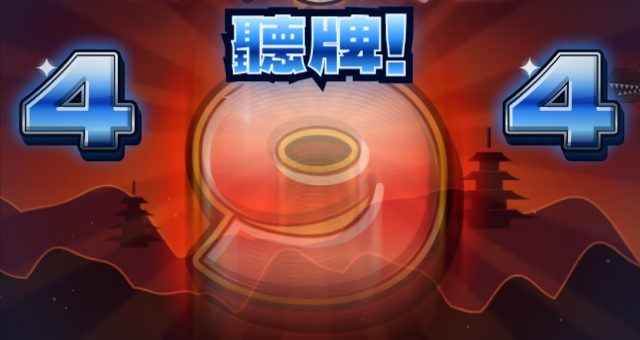
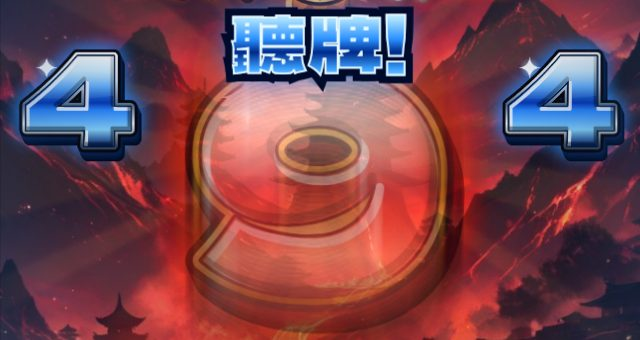
AI dragons in every effect, livelier odds, sub display by mode, lighter pins

diff --git a/src/lcd.js b/src/lcd.js
@@ -462,7 +462,8 @@
 
   // ------------------------------------------------------------------ image slots
   const IMG = {};
-  const IMG_FILES = { bg_normal: "bg_normal.jpg", bg_rush: "bg_rush.jpg", hero: "hero.png", rival: "rival.png", cutin_hero: "cutin_hero.png", jackpot: "jackpot.png" };
+  const IMG_FILES = { bg_normal: "bg_normal.jpg", bg_rush: "bg_rush.jpg", hero: "hero.png", rival: "rival.png", cutin_hero: "cutin_hero.png", jackpot: "jackpot.png", cab_dragon: "cab_dragon.png",
+    bg_sp: "bg_sp.jpg", bg_battle: "bg_battle.jpg", bg_spsp: "bg_spsp.jpg", bg_bonus: "bg_bonus.jpg", bg_jitan: "bg_jitan.jpg", bg_jackpot: "bg_jackpot.jpg" };
   let imgPending = 0;
   function loadImages(base) {
     for (const k in IMG_FILES) {
@@ -507,6 +508,17 @@
     const s = Math.max(w / im.naturalWidth, h / im.naturalHeight);
     const iw = im.naturalWidth * s, ih = im.naturalHeight * s;
     ctx.drawImage(im, x + (w - iw) / 2, y + (h - ih) / 2, iw, ih);
+  }
+  // AI dragon art (rival.png, or the gold statue cab_dragon.png) in place of a drawn dragon: h tall,
+  // centred on (cx, cy), facing left like the art (flip: facing right). Returns the mouth, roughly.
+  function drawArtDragon(ctx, im, cx, cy, h, flip) {
+    const w = (h * im.naturalWidth) / im.naturalHeight;
+    ctx.save();
+    ctx.translate(cx, cy);
+    if (flip) ctx.scale(-1, 1);
+    ctx.drawImage(im, -w / 2, -h / 2, w, h);
+    ctx.restore();
+    return { mx: cx + (flip ? 0.3 : -0.3) * w, my: cy - 0.12 * h };
   }
   function drawContain(ctx, im, x, y, w, h, alignBottom) {
     const s = Math.min(w / im.naturalWidth, h / im.naturalHeight);
@@ -1258,6 +1270,12 @@
     return (cache[key] = c);
   }
   function drawBg(ctx, id) { ctx.drawImage(bgSprite(id), -12, -12, W + 24, H + 24); }
+  // A scene's AI background when there is one (the result screen shares the bonus one), else the
+  // drawn one.
+  function sceneBg(ctx, id) {
+    const im = IMG["bg_" + (id === "result" ? "bonus" : id)];
+    if (im) drawCover(ctx, im, -12, -12, W + 24, H + 24); else drawBg(ctx, id);
+  }
   function ridge(g, base, amp, freq, seed, fill, rim) {
     g.beginPath(); g.moveTo(-14, H + 14);
     for (let x = -14; x <= W + 14; x += 3) {
@@ -1427,7 +1445,7 @@
     },
     jitan: {
       draw(ctx, age) {
-        drawBg(ctx, "jitan");
+        sceneBg(ctx, "jitan");
         drawRays(ctx, CX, 160, C.orange, age * 0.2, 0.3, 430, 18, true);
         speedLines(ctx, CX, 160, 20, C.white, 0.25, 90, Math.floor(age * 16));
       },
@@ -1437,7 +1455,7 @@
     },
     bonus: {
       draw(ctx, age) {
-        drawBg(ctx, "bonus");
+        sceneBg(ctx, "bonus");
         drawRays(ctx, CX, 150, C.gold, age * 0.18, 0.4, 440, 18, true);
         if (IMG.hero) { ctx.globalAlpha = 0.9; drawContain(ctx, IMG.hero, 60, 40, 272, 280, true); }
         else drawWarrior(ctx, { x: CX - 10, y: H + 34, sc: 1.02, t: age, rim: "gold", aura: 1, sword: -1.25 + Math.sin(age * 1.5) * 0.04 });
@@ -1450,7 +1468,7 @@
     },
     sp: {
       draw(ctx, age, opt) {
-        drawBg(ctx, "sp");
+        sceneBg(ctx, "sp");
         const drift = (age * 18) % (W + 200);
         ctx.save(); ctx.globalAlpha = 0.5;
         for (let i = 0; i < 6; i++) {
@@ -1477,7 +1495,7 @@
     },
     battle: {
       draw(ctx, age) {
-        drawBg(ctx, "battle");
+        sceneBg(ctx, "battle");
         ctx.save(); ctx.globalCompositeOperation = "lighter";
         drawGlow(ctx, C.orange, CX, 236, 260, 0.25 + 0.08 * Math.sin(age * 3));
         ctx.restore();
@@ -1489,7 +1507,7 @@
     },
     spsp: {
       draw(ctx, age) {
-        drawBg(ctx, "spsp");
+        sceneBg(ctx, "spsp");
         drawRays(ctx, CX, 190, C.gold, age * 0.5, 0.45, 450, 20, true);
         drawRays(ctx, CX, 190, C.red, -age * 0.32, 0.35, 450, 12, true);
         // rainbow halo
@@ -1508,7 +1526,7 @@
     },
     jackpot: {
       draw(ctx, age) {
-        drawBg(ctx, "jackpot");
+        sceneBg(ctx, "jackpot");
         drawRays(ctx, CX, 172, C.white, age * 0.6, 0.5, 450, 22, true);
         drawRays(ctx, CX, 172, C.gold, -age * 0.4, 0.4, 450, 16, true);
         if (IMG.jackpot) { ctx.globalAlpha = 0.85; drawContain(ctx, IMG.jackpot, 0, 20, W, H - 20, true); ctx.globalAlpha = 1; }
@@ -1523,7 +1541,7 @@
     },
     result: {
       draw(ctx, age) {
-        drawBg(ctx, "result");
+        sceneBg(ctx, "result");
         drawRays(ctx, CX, 150, C.blue, age * 0.1, 0.25, 430, 16, true);
       },
       emit(dt) {
@@ -1948,11 +1966,15 @@
     } else if (lv === 4) {
       drawRays(ctx, 0, 0, C.gold, tt * 1.5, 0.6, 200, 16, true);
       ctx.globalCompositeOperation = "source-over";
-      drawWarrior(ctx, { x: 6, y: 128, sc: 0.62, t: tt, rim: "gold", aura: 1 });
+      if (IMG.hero) {   // the AI warrior from the waist up
+        const im = IMG.hero, sh = im.naturalHeight * 0.58, dh = 150, dw = (dh * im.naturalWidth) / sh;
+        ctx.drawImage(im, 0, 0, im.naturalWidth, sh, -dw / 2, -h / 2 + 2, dw, dh);
+      } else drawWarrior(ctx, { x: 6, y: 128, sc: 0.62, t: tt, rim: "gold", aura: 1 });
     } else {
       drawRays(ctx, 0, 0, hueRgb(tt * 200), tt * 2, 0.7, 220, 20, true);
       ctx.globalCompositeOperation = "source-over";
-      drawDragon(ctx, { x: -40, y: -14, sc: 0.62, dir: -1, t: tt * 1.4, len: 300, w0: 16, ang: -0.25, curl: -4.2, amp: 0.15, pal: "gold", glow: true, jaw: 0.42 });
+      if (IMG.cab_dragon) drawArtDragon(ctx, IMG.cab_dragon, 0, 12, 150, false);
+      else drawDragon(ctx, { x: -40, y: -14, sc: 0.62, dir: -1, t: tt * 1.4, len: 300, w0: 16, ang: -0.25, curl: -4.2, amp: 0.15, pal: "gold", glow: true, jaw: 0.42 });
     }
     ctx.globalCompositeOperation = "source-over";
     ctx.restore();
@@ -1962,7 +1984,7 @@
     if (lv >= 4) { bg2.addColorStop(0, "#fff0a0"); bg2.addColorStop(1, "#b06a00"); } else { bg2.addColorStop(0, "#ffffff"); bg2.addColorStop(1, "#6a7a90"); }
     ctx.fillStyle = bg2; roundRect(ctx, -w / 2 - 6, -h / 2 - 10, 82, 24, 7); ctx.fill();
     ctx.font = "14px " + FONT_DIGIT; ctx.textAlign = "left"; ctx.lineJoin = "round";
-    ctx.fillStyle = "#1a0a00"; ctx.fillText("STEP", -w / 2 + 2, -h / 2 + 8);
+    ctx.fillStyle = "#1a0a00"; ctx.fillText(T("lcd.step"), -w / 2 + 2, -h / 2 + 8);
     ctx.font = "22px " + FONT_DIGIT;
     ctx.lineWidth = 4; ctx.strokeStyle = "#1a0a00"; ctx.strokeText(String(lv), -w / 2 + 52, -h / 2 + 11);
     ctx.fillStyle = lv === 5 ? "rgb(" + hueRgb(tt * 300) + ")" : lv >= 3 ? "#ff3a1a" : "#ffffff"; ctx.fillText(String(lv), -w / 2 + 52, -h / 2 + 11);
@@ -2011,7 +2033,8 @@
       for (const d of ds) {
         const p = pos(d, age);
         if (p.u < 0 || p.u > 1) continue;
-        drawDragon(ctx, { x: p.x, y: p.y, sc: d.sc, dir: 1, simple: true, pal: d.pal, t: age * 2.5 + d.ph, len: 260, amp: 0.5, wave: 1.4, spd: 6, glow: 1.6, ang: -0.15 });
+        if (IMG.rival) drawArtDragon(ctx, d.pal === "gold" && IMG.cab_dragon ? IMG.cab_dragon : IMG.rival, p.x - 60 * d.sc, p.y, 270 * d.sc, true);   // flying right
+        else drawDragon(ctx, { x: p.x, y: p.y, sc: d.sc, dir: 1, simple: true, pal: d.pal, t: age * 2.5 + d.ph, len: 260, amp: 0.5, wave: 1.4, spd: 6, glow: 1.6, ang: -0.15 });
       }
     }, {
       seq: true,
@@ -2210,7 +2233,11 @@
     addActor("back", 4.4, (ctx, age, a) => {
       const u = clamp(age / 4.1, 0, 1), ue = 0.35 * u + 0.65 * E.io(u);
       const x = lerp(W + 90, -330, ue), y = 176 + Math.sin(age * 1.6) * 20 - Math.sin(u * Math.PI) * 34;
-      const d = drawDragon(ctx, { x, y, sc: 1.22, dir: -1, t: age * 1.4, len: 450, w0: 17, amp: 0.45, wave: 1.25, spd: 4, pal, glow: true, jaw: 0.25 + 0.2 * Math.sin(age * 5) });
+      let d;
+      if (IMG.rival) {   // the AI dragon, lit in the reach colour
+        ctx.save(); ctx.globalCompositeOperation = "lighter"; drawGlow(ctx, pal === "azure" ? C.cyan : pal === "gold" ? C.gold : C.orange, x + 120, y, 210, 0.5); ctx.restore();
+        d = drawArtDragon(ctx, IMG.rival, x + 120, y + Math.sin(age * 2.2) * 6, 270, false);
+      } else d = drawDragon(ctx, { x, y, sc: 1.22, dir: -1, t: age * 1.4, len: 450, w0: 17, amp: 0.45, wave: 1.25, spd: 4, pal, glow: true, jaw: 0.25 + 0.2 * Math.sin(age * 5) });
       a.mx = d.mx; a.my = d.my;
       if (age > 1.8 && age < 2.4) { ctx.globalCompositeOperation = "lighter"; drawGlow(ctx, C.white, d.mx, d.my, 70, 0.7 * Math.sin(((age - 1.8) / 0.6) * Math.PI)); }
     }, {
@@ -2235,7 +2262,10 @@
     setScene("spsp", 0.1);
     shake(10); flash(C.gold, 1, 2.5);
     addActor("back", Infinity, (ctx, age) => {
-      drawDragon(ctx, { x: CX + 6, y: 92, sc: 0.98, dir: 1, t: age * 0.7, len: 480, w0: 17, ang: 0.1, curl: -5.4, amp: 0.1, wave: 1, spd: 1.2, pal: "gold", glow: true, alpha: 0.95, jaw: 0.3 });
+      if (IMG.cab_dragon) {   // the gold statue, breathing slightly
+        ctx.save(); ctx.globalCompositeOperation = "lighter"; drawGlow(ctx, C.gold, CX, H / 2, 240, 0.45); ctx.restore();
+        drawArtDragon(ctx, IMG.cab_dragon, CX, H / 2 + 8, H * (0.98 + 0.015 * Math.sin(age * 2)), false);
+      } else drawDragon(ctx, { x: CX + 6, y: 92, sc: 0.98, dir: 1, t: age * 0.7, len: 480, w0: 17, ang: 0.1, curl: -5.4, amp: 0.1, wave: 1, spd: 1.2, pal: "gold", glow: true, alpha: 0.95, jaw: 0.3 });
     }, { seq: true });
     const big = telop(T("lcd.spsp"), { x: CX, y: 172, size: 112, cls: "rainbow", font: FONT_BRUSH, anim: "slam", stay: true, inD: 0.3, jitter: 4 });
     fireBurst(CX, 180, 40, 300, "front");

diff --git a/src/shell.js b/src/shell.js
@@ -53,7 +53,7 @@
 
   const GLOSSARY = [
     ["glg.buttons", ["gl.handle", "gl.push", "gl.auto", "gl.right"]],
-    ["glg.numbers", ["gl.balls", "gl.coins", "gl.serial", "gl.sinceHit", "gl.totalSpins", "gl.todayHits", "gl.history", "gl.hold", "gl.st"]],
+    ["glg.numbers", ["gl.balls", "gl.coins", "gl.serial", "gl.sinceHit", "gl.totalSpins", "gl.todayHits", "gl.history", "gl.hold", "gl.st", "gl.sub"]],
     ["glg.win", ["gl.spin", "gl.reach", "gl.jackpot", "gl.round", "gl.rush", "gl.rate", "gl.jitan"]],
     ["glg.hints", ["gl.holdColor", "gl.stepup", "gl.gun", "gl.cutin", "gl.pseudo", "gl.battle", "gl.hot", "gl.kokuchi", "gl.revive"]],
   ];
@@ -161,6 +161,7 @@
       $("cToday").textContent = fmt(day.hits);
       // 大當履歷: one bar per hit, newest on the right; height = spins it took (capped), colour = mode
       const last = st.history.slice(-10), list = $("histList");
+      $("histEmpty").hidden = last.length > 0;   // say what the empty graph is for
       list.innerHTML = "";
       for (let i = 0; i < 10; i++) {
         const h = last[i - (10 - last.length)], li = document.createElement("li");
@@ -181,7 +182,16 @@
     // Music waits for the first PLAY: the page stays quiet until the player starts.
     let musicOn = false, bgmWant = null;
     function bgm(name) { bgmWant = name; if (musicOn) PK.Sound.bgm(name); }
+    // The sub display says what matters now (it used to show the RUSH continuation rate all the time).
+    const SPEC = eng.tables.spec;
+    function showSub() {
+      if (mode === "rush") PK.Cabinet.setSub(t("cab.subRush", { p: Math.round(100 * (1 - Math.pow(1 - SPEC.rushChance, SPEC.st))) }));
+      else if (mode === "jitan") PK.Cabinet.setSub(t("cab.subJitan"));
+      else if (bonusy()) PK.Cabinet.setSub(t("cab.subBonus"));
+      else PK.Cabinet.setSub(t("cab.subNormal", { n: Math.round(10 / SPEC.normalChance) / 10 }));
+    }
     function modeLook() {
+      showSub();
       lights(rushy() ? "rush" : bonusy() ? "bonus" : "normal");
       bgm(rushy() ? "rush" : bonusy() ? "bonus" : "normal");
     }
@@ -247,7 +257,7 @@
       const r = sc.reach || {};
       if (n === "spinStart") snd("spin");
       else if (n.startsWith("reelStop")) snd("stop");
-      else if (n.startsWith("stepup:")) { snd("stepup"); if (+n.slice(7) >= 3) caption("stepup"); }
+      else if (n.startsWith("stepup:")) { snd("stepup"); caption("stepup"); }
       else if (n === "gun") { snd("gun"); caption("gun"); }
       else if (n === "cutin") { snd("cutin"); caption("cutin"); }
       else if (n.startsWith("pseudo:")) { snd("pseudo"); caption("pseudo"); }

diff --git a/src/text.js b/src/text.js
@@ -18,6 +18,7 @@
     "lcd.streakN": "{n}連",
     "lcd.gainLbl": "獲得",
     "lcd.aim": "右打",
+    "lcd.step": "STEP",
     "lcd.step5": "激",
     "lcd.gun": "群",
     "lcd.cutinGold": "超激熱!!",
@@ -50,6 +51,11 @@
 
     // ---- cabinet (src/cabinet.js)
     "cab.subDefault": "連莊率\n約80%",
+    // the sub display follows the mode (shell.js modeLook)
+    "cab.subNormal": "大當機率\n1/{n}",
+    "cab.subRush": "連莊率\n約{p}%",
+    "cab.subJitan": "時短中\n助攻",
+    "cab.subBonus": "大當中\n右打→",
 
     // ---- shell: top bar, data counter, controls
     "ui.menu": "選單",
@@ -63,6 +69,7 @@
     "ui.histNormal": "通常",
     "ui.histRush": "RUSH",
     "ui.histJitan": "時短",
+    "ui.histEmpty": "中了大當後，這裡會記錄最近 10 次",
     "ui.balls": "總玉數",
     "ui.auto": "自動",
     "ui.autoOn": "自動 ON",
@@ -115,7 +122,7 @@
     "cap.battle": "對決：連打 PUSH 幫主角，打贏就是大當",
     "cap.spsp": "激熱：這次很有機會！",
     "cap.push": "PUSH：按中間大按鈕揭曉",
-    "cap.stepup": "步驟預告：升得越高越有機會",
+    "cap.stepup": "STEP 預告：升到越高越有機會（最高 STEP 5）",
     "cap.gun": "群龍預告：大約一半機會",
     "cap.cutin": "插畫預告：紅色、金色更有機會",
     "cap.pseudo": "擬似連：數字重新轉，次數越多越有機會",
@@ -181,7 +188,8 @@
     "gl.rate": "連莊率|在 RUSH 裡再中一次的機會。約 80% 就是 10 次有 8 次會繼續。",
     "gl.jitan": "時短|沒進 RUSH 時的短暫助攻（20 轉）。珠子不太會減少，但中獎機率和平常一樣。",
     "gl.holdColor": "保留變色|保留的圓點變色。藍 < 綠 < 紅 < 金 < 彩虹，越熱越有機會，彩虹一定中。",
-    "gl.stepup": "步驟預告|面板一格一格升級，升得越高越有機會（最高第 5 階）。",
+    "gl.stepup": "STEP 預告|液晶跳出 STEP 1、2、3…的面板，一格一格升級。升得越高越有機會，最高 STEP 5（激）。",
+    "gl.sub": "右邊的小螢幕|顯示現在的重點：平常是大當機率，RUSH 中是連莊率，大當中提醒右打。",
     "gl.gun": "群龍預告|一大群龍飛過畫面，大約一半機會。",
     "gl.cutin": "插畫預告|角色插畫橫切過畫面。藍色普通，紅色、金色更有機會。",
     "gl.pseudo": "擬似連|數字停下前又重新轉起來（出現「×2」「×3」），次數越多越有機會。",

diff --git a/src/cabinet.js b/src/cabinet.js
@@ -204,10 +204,11 @@
     const all = [];
     const add = (x, y, g) => { const p = { x, y, g }; all.push(p); return p; };
     PINS.L = []; PINS.R = []; PINS.road = [];
-    // Left lane: staggered rows between the rail and the LCD bezel.
-    for (let r = 0, y = 244; y <= 466; r++, y += 14) {
-      const off = (r % 2) * 8;
-      for (let x = 90 - off; x >= railLeftX(y) + 11.5; x -= 16) {
+    // Left lane: staggered rows between the rail and the LCD bezel. Rows 18 apart and pins 20 apart
+    // (the user found a 14 x 16 grid too dense); still close enough for a pin below on each side.
+    for (let r = 0, y = 244; y <= 466; r++, y += 18) {
+      const off = (r % 2) * 10;
+      for (let x = 90 - off; x >= railLeftX(y) + 11.5; x -= 20) {
         if (Math.hypot(x - WM.x, y - WM.y) < WM.r + 9) continue;
         if (Math.hypot(x - WARP.x, y - WARP.y) < 11) continue;
         PINS.L.push(add(x, y, "L"));
@@ -262,8 +263,8 @@
       [252, 494, 338, 646],   // heso field, 袴 and the miss paths
       [L.gimmick[1].x - 8, L.gimmick[1].y - 8, L.gimmick[1].x + L.gimmick[1].w + 8, L.gimmick[1].y + L.gimmick[1].h + 8],
     ];
-    for (let r = 0, y = 472; y <= 640; r++, y += 14) {
-      for (let x = 20 + (r % 2) * 8; x <= 568; x += 16) {
+    for (let r = 0, y = 472; y <= 640; r++, y += 18) {   // same 18 x 20 spacing as the left lane
+      for (let x = 20 + (r % 2) * 10; x <= 568; x += 20) {
         if (!inWin(x, y, -12) || x < railLeftX(y) + 14) continue;
         if (x > STAGE.x0 - 10 && x < STAGE.x1 + 10 && y < stageY(x) + 14) continue;
         if (boxes.some((b) => x > b[0] && x < b[2] && y > b[1] && y < b[3])) continue;

diff --git a/index.html b/index.html
@@ -69,6 +69,9 @@
   #history .legend i::before { content: ""; width: 9px; height: 9px; border-radius: 2px; background: var(--c); }
   #histList { flex: 1; min-width: 0; margin: 0; padding: 4px 4px 2px; list-style: none; display: grid; grid-template-columns: repeat(10, minmax(0, 1fr)); gap: 3px;
     background: #04060b; border: 1px solid var(--line); border-radius: 6px; }
+  #histBox { flex: 1; min-width: 0; position: relative; display: flex; }
+  #histEmpty { position: absolute; inset: 0 0 14px; margin: 0; display: flex; align-items: center; justify-content: center; padding: 0 10px;
+    text-align: center; font: 700 11px/1.35 var(--f-body); color: var(--dim); }
   #histList li { min-width: 0; display: flex; flex-direction: column; justify-content: flex-end; align-items: stretch; }
   #histList li u { display: block; min-height: 3px; border-radius: 1px;
     background: repeating-linear-gradient(0deg, var(--c) 0 3px, rgba(0, 0, 0, 0) 3px 4px); box-shadow: 0 0 6px var(--c); }
@@ -200,7 +203,7 @@
   </div>
   <div id="history">
     <div class="legend"><span data-t="ui.history"></span><i class="hN" data-t="ui.histNormal"></i><i class="hR" data-t="ui.histRush"></i><i class="hJ" data-t="ui.histJitan"></i></div>
-    <ol id="histList"></ol>
+    <div id="histBox"><ol id="histList"></ol><p id="histEmpty" data-t="ui.histEmpty" hidden></p></div>
   </div>
   <main id="stageWrap">
     <div id="stage">

diff --git a/src/machines.js b/src/machines.js
@@ -17,6 +17,9 @@
     assetsBase: "assets/",   // optional image slots (see dev/CONTRACT.md "Image slots")
     refill: 10000,           // free refill amount, in balls
     text: {},
-    engine: {},
+    // Livelier than the engine's 1/99.9 default (the user felt hits were too rare): in a 33-hour
+    // simulation a first hit comes every ~4 min of normal play instead of ~9, a reach every ~20 s
+    // instead of ~50 s. RUSH (1/7.3 x ST 11, about 80% continuation) is unchanged.
+    engine: { spec: { normalChance: 1 / 49.9 }, units: { hesoRate: 1 / 7 } },
   };
 })();
